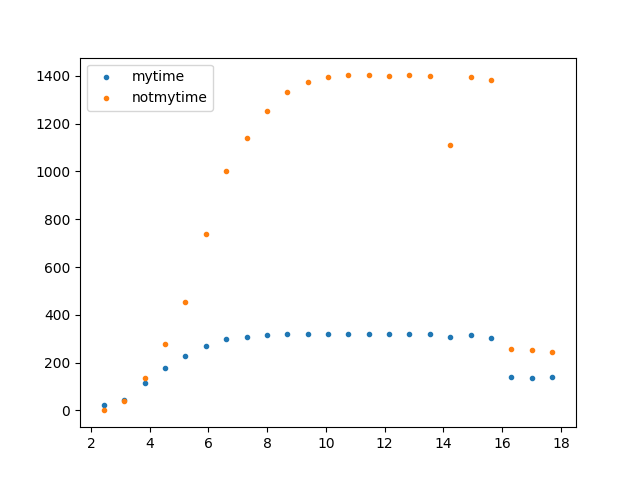
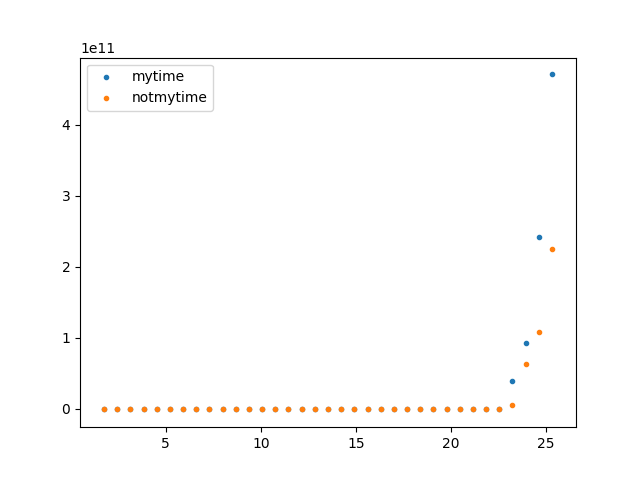
opps

diff --git a/hw1/problem4/ploter.py b/hw1/problem4/ploter.py
@@ -1,16 +1,16 @@
 from matplotlib import pyplot;
 #from pylab import genfromtxt;
 import numpy as np
-import math as mth
 #mat0 = genfromtxt("data0.txt");
+#data = np.genfromtxt("problem4.txt",delimiter=",");
 data = np.genfromtxt("problem4.txt",delimiter=",");
-#print mat1[1:3,:]
+print data[1:,1]
 mytime = pyplot.scatter(np.log(data[1:,0]/np.log(4.)), data[1:,1],marker=".");
 other  = pyplot.scatter(np.log(data[1:,0]/np.log(4.)), data[1:,2],marker=".");
-pyplot.plot(np.log(data[1:,0]/np.log(4.)), data[1:,1],marker=".");
-pyplot.plot(np.log(data[1:,0]/np.log(4.)), data[1:,2],marker=".");
-labels = [1,4,16,256,'1K','4K','16K','64K','256K','1M','4M','16M','64M','256M']
-pyplot.xticks(x,labels)
+#pyplot.plot(np.log(data[1:,0]/np.log(4.)), data[1:,1],marker=".");
+#pyplot.plot(np.log(data[1:,0]/np.log(4.)), data[1:,2],marker=".");
+#labels = [1,4,16,256,'1K','4K','16K','64K','256K','1M','4M','16M','64M','256M']
+#pyplot.xticks(np.log(data[1:,0]/np.log(4.)),labels)
 #icolumnFirst = pyplot.scatter(ifort[1:,0], ifoty[1:,2],marker=".");
 pyplot.legend((mytime,other),('mytime','notmytime'));
 pyplot.savefig('compare.png')
